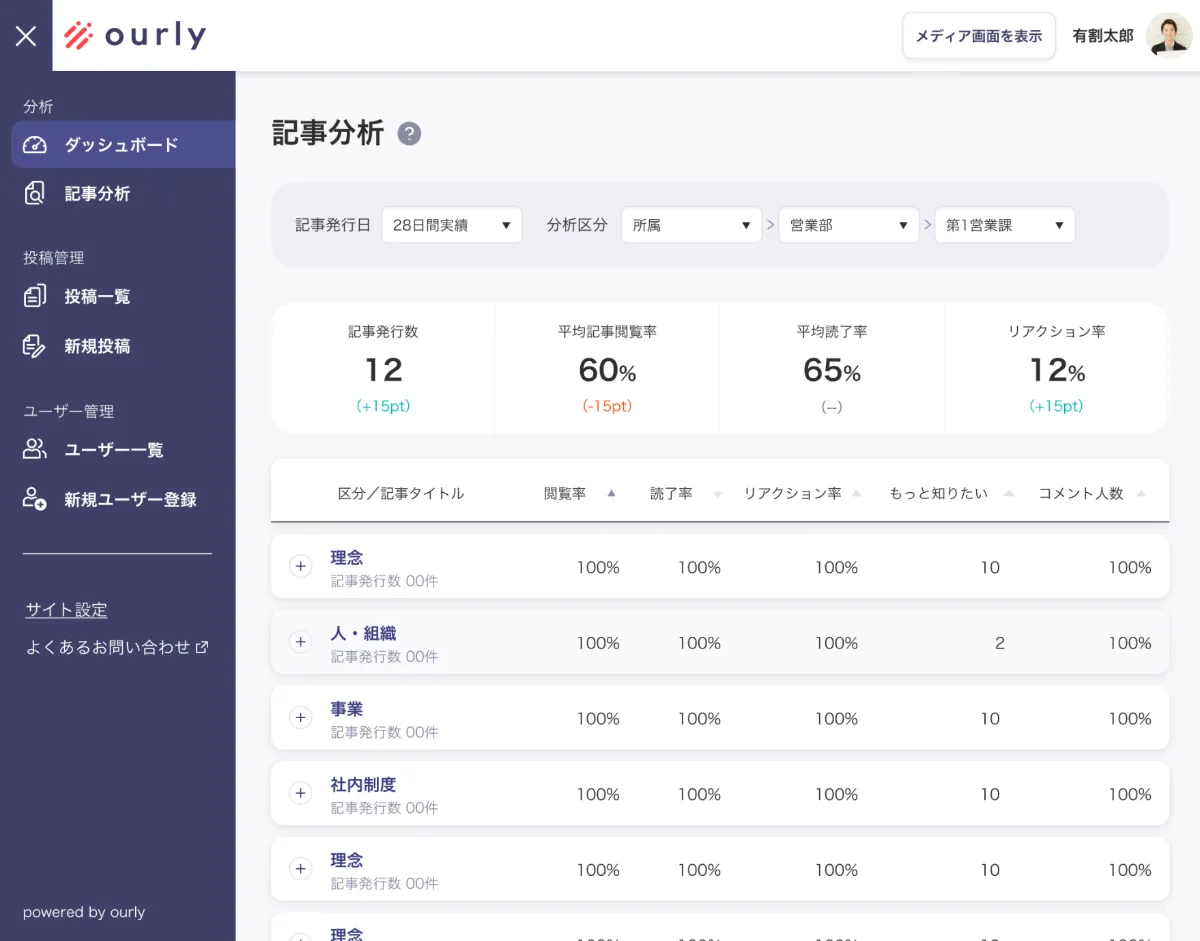
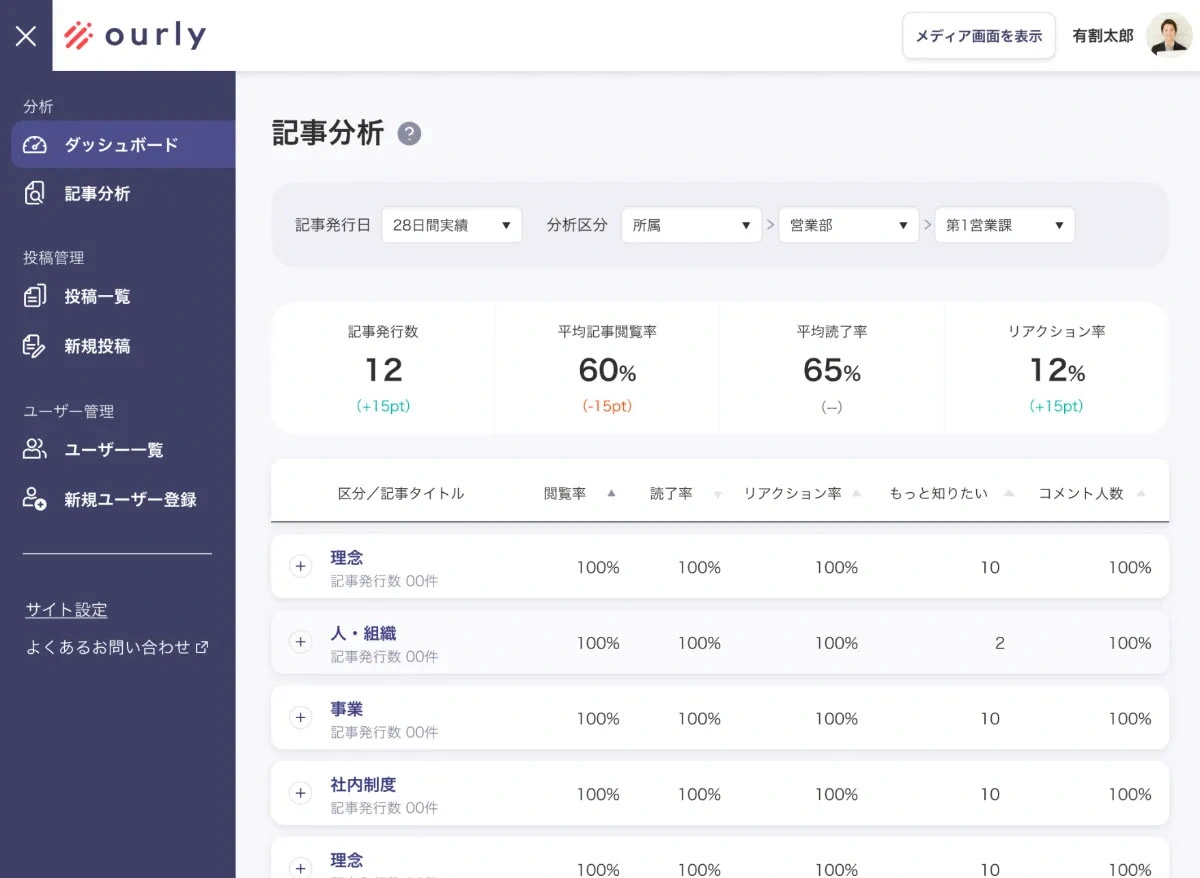
pics change png/jpg to webp

diff --git a/src/app/Main.js b/src/app/Main.js
@@ -23,9 +23,9 @@ import { motion } from 'framer-motion';
 
 const data = [
   {
-    imgAnnoying: '/img/20Yman-02-bgN.png',
+    imgAnnoying: '/img/20Yman-02-bgN.webp',
     annoyingImgInfo: 'young man is annoyed',
-    imgSolved: '/img/20Yman-04-bgN.png',
+    imgSolved: '/img/20Yman-04-bgN.webp',
     solvedImgInfo: 'happy young man cause problems solved',
     content: '私は会社のコミュニケーションについて悩んでいます…',
     article01: '会社の最新情報をキャッチしたい…',
@@ -40,9 +40,9 @@ const data = [
       '部署や年齢を超えた、意外な繋がりを無数に生み出すSNSのようなUIを設計しました。<br />特にブロックごとのリアクション・コメント機能が、小さなコミュニケーションの発生を見逃しません。',
   },
   {
-    imgAnnoying: '/img/30Yman-06.png',
+    imgAnnoying: '/img/30Yman-06.webp',
     annoyingImgInfo: '30y man is annoyed',
-    imgSolved: '/img/30Yman-04-bgN.png',
+    imgSolved: '/img/30Yman-04-bgN.webp',
     solvedImgInfo: 'happy 30y man cause problems solved',
     content: '社内の雰囲気をもっと向上させたい…',
     article01: '私の声がちゃんと届いているのか知りたい…',
@@ -57,9 +57,9 @@ const data = [
       '月1回の定例・レポーティングを実施しています。<br />社内報の閲覧状況や前月からの変化などのデータを見ながら、インナーコミュニケーション分野に<br />携わってきたプロフェッショナルが、各担当者様や企業様が抱えていらっしゃる課題に沿って振り返りと次のアクションをご提案いたします。<br />もちろん定例以外にもお困りの際は、その都度サポートさせていただきます。',
   },
   {
-    imgAnnoying: '/img/30Ywoman-01-bgN-2.png',
+    imgAnnoying: '/img/30Ywoman-01-bgN-2.webp',
     annoyingImgInfo: 'young woman is annoyed',
-    imgSolved: '/img/30Ywoman-02-bgN-2.png',
+    imgSolved: '/img/30Ywoman-02-bgN-2.webp',
     solvedImgInfo: 'happy young woman cause problems solved',
     content: '私は皆んなの好みに合う社内報を作りたい…',
     article01: '皆んなはどんな内容が好きですか？',

diff --git a/src/app/Slider.js b/src/app/Slider.js
@@ -72,12 +72,12 @@ export default function Slider() {
           </div>
           <span className="triangle01"></span>
           <span className="triangle02"></span>
-          <img src="/img/office-bg.jpg" className="KV" />
+          <img src="/img/office-bg.webp" className="KV" />
           <span className="download01">
-            <img src="/img/QR_google.png" />
+            <img src="/img/QR_google.webp" />
           </span>
           <span className="download02">
-            <img src="/img/QR_apple.png" />
+            <img src="/img/QR_apple.webp" />
           </span>
         </SwiperSlide>
         <SwiperSlide className={isMobile ? '' : 'page02'}>
@@ -103,12 +103,12 @@ export default function Slider() {
           </div>
           <span className="triangle03"></span>
           <span className="triangle04"></span>
-          <img src="/img/30Ywoman-04-bg.jpg" />
+          <img src="/img/30Ywoman-04-bg.webp" />
           <span className="download03">
-            <img src="/img/QR_google.png" />
+            <img src="/img/QR_google.webp" />
           </span>
           <span className="download04">
-            <img src="/img/QR_apple.png" />
+            <img src="/img/QR_apple.webp" />
           </span>
         </SwiperSlide>
         <SwiperSlide className={isMobile ? '' : 'page03'}>
@@ -132,12 +132,12 @@ export default function Slider() {
           </div>
           <span className="triangle05"></span>
           <span className="triangle06"></span>
-          <img src="/img/happypeople-bg.png" />
+          <img src="/img/happypeople-bg.webp" />
           <span className="download05">
-            <img src="/img/QR_google.png" />
+            <img src="/img/QR_google.webp" />
           </span>
           <span className="download06">
-            <img src="/img/QR_apple.png" />
+            <img src="/img/QR_apple.webp" />
           </span>
         </SwiperSlide>
       </Swiper>

diff --git a/src/app/css/Main.css b/src/app/css/Main.css
@@ -85,7 +85,7 @@
 
   position: relative;
 
-  background-image: url(/img/communication.jpg);
+  background-image: url(/img/communication.webp);
   background-repeat: no-repeat;
   background-size: 40%;
   background-position: 80% 90%;
@@ -98,7 +98,7 @@
   bottom: 0px;
   left: 8%;
 
-  background-image: url(/img/surprise.png);
+  background-image: url(/img/surprise.webp);
   background-repeat: no-repeat;
   background-position: 0 0;
   background-size: 30%;
@@ -111,7 +111,7 @@
 
   position: relative;
 
-  background-image: url(/img/report.jpg);
+  background-image: url(/img/report.webp);
   background-repeat: no-repeat;
   background-size: 38%;
   background-position: 90% 90%;
@@ -152,7 +152,7 @@
 .solvedwoman::after {
   content: '';
   position: absolute;
-  background-image: url(/img/KViphone.png);
+  background-image: url(/img/KViphone.webp);
   top: 42%;
   right: 43%;
   background-size: 80%;
@@ -209,7 +209,7 @@ h2 {
 .annoyingman01::before,
 .annoyingman02::before {
   content: '';
-  background-image: url(/img/question.png);
+  background-image: url(/img/question.webp);
   background-size: 80%;
   position: absolute;
   width: 30%;
@@ -223,7 +223,7 @@ h2 {
 }
 .annoyingwoman::before {
   content: '';
-  background-image: url(/img/question.png);
+  background-image: url(/img/question.webp);
   top: 0;
   right: 8%;
   width: 30%;

diff --git a/src/app/Sub.js b/src/app/Sub.js
@@ -11,7 +11,7 @@ const content = [
     imgNum: '/img/01.svg',
     imgNumAlt: 'number 1',
     title: 'どの記事が<br />どのくらい読まれているか<br />わかる',
-    imgContent: '/img/analyze01.png',
+    imgContent: '/img/analyze01.webp',
     imgimgContentAlt: 'ourly analysis function part one, about read condition',
     text: '記事ごとに算出された閲覧状況を、管理画面で一括確認できます。数値ベースの改善で「伝えたつもり」をなくします。PV数などの基本指標はもちろん、記事ごとに閲覧率・読了率・リアクション率などourly独自の指標でも分析できるのでより詳細に閲覧状況を把握できます。',
     bgimg: '/img/1-bg.svg',

diff --git a/src/app/css/Slider.css b/src/app/css/Slider.css
@@ -72,7 +72,7 @@ p {
   right: -20%;
   width: 80%;
   height: 80%;
-  background-image: url('/img/personal-01-bgN.png');
+  background-image: url('/img/personal-01-bgN.webp');
   background-repeat: no-repeat;
   background-size: contain;
 
@@ -171,7 +171,7 @@ p {
   left: 0;
   width: 50%;
   height: 75%;
-  background-image: url('/img/30Ywoman-04-bgN.png');
+  background-image: url('/img/30Ywoman-04-bgN.webp');
   background-repeat: no-repeat;
   background-size: cover;
 
@@ -188,7 +188,7 @@ p {
   left: 0;
   width: 100%;
   height: 100%;
-  background-image: url('/img/happypeople-bgN.png');
+  background-image: url('/img/happypeople-bgN.webp');
   background-position: 0 0;
   background-repeat: no-repeat;
   background-size: 90%;

diff --git a/src/app/css/Guide.css b/src/app/css/Guide.css
@@ -76,7 +76,7 @@
 }
 .guide01::after {
   content: '';
-  background: url(/img/20Yman-02-bgN.png);
+  background: url(/img/20Yman-02-bgN.webp);
   background-repeat: no-repeat;
   background-size: 100%;
   position: absolute;
@@ -88,7 +88,7 @@
 }
 .guide02::after {
   content: '';
-  background: url(/img/30Yman-02-bgN.png);
+  background: url(/img/30Yman-02-bgN.webp);
   background-repeat: no-repeat;
   background-size: 100%;
   position: absolute;
@@ -99,7 +99,7 @@
 }
 .guide03::after {
   content: '';
-  background: url(/img/30Ywoman-01-bgN-2.png);
+  background: url(/img/30Ywoman-01-bgN-2.webp);
   background-repeat: no-repeat;
   background-size: 100%;
   position: absolute;

diff --git a/src/app/Guide.js b/src/app/Guide.js
@@ -53,7 +53,7 @@ export default function Guide() {
       <div className={`guide fixed ${isOpen ? 'guide-open' : ''}`}>
         <div className="header fixed top-0 left-0 z-10 p-8">
           <a href="https://service.ourly.jp/">
-            <img src="/img/ourly_logo_w600.png" className="w-56" />
+            <img src="/img/ourly_logo_w600.webp" className="w-56" />
           </a>
         </div>
         <p className="text-[48px] font-bold guide-title">

diff --git a/src/app/Header.js b/src/app/Header.js
@@ -6,7 +6,7 @@ export default function Header() {
   return (
     <div className="header fixed top-0 left-0 z-30 p-8">
       <a href="https://service.ourly.jp/">
-        <img src="/img/ourly_logo_w600.png" className="w-56" />
+        <img src="/img/ourly_logo.webp" className="w-56" />
       </a>
       <button className="otoiawase ml-auto text-[18px]">お問い合わせ</button>
     </div>

diff --git a/src/app/css/Intro.css b/src/app/css/Intro.css
@@ -55,7 +55,7 @@
 }
 .intro::after {
   content: '';
-  background-image: url(/img/personal-05-bgN.png);
+  background-image: url(/img/personal-05-bgN.webp);
   background-repeat: no-repeat;
   background-position: 100% 100%;
   background-size: 90%;
